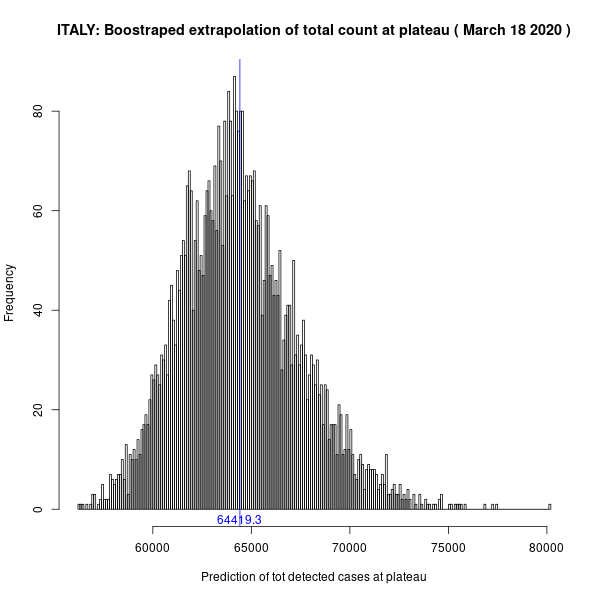
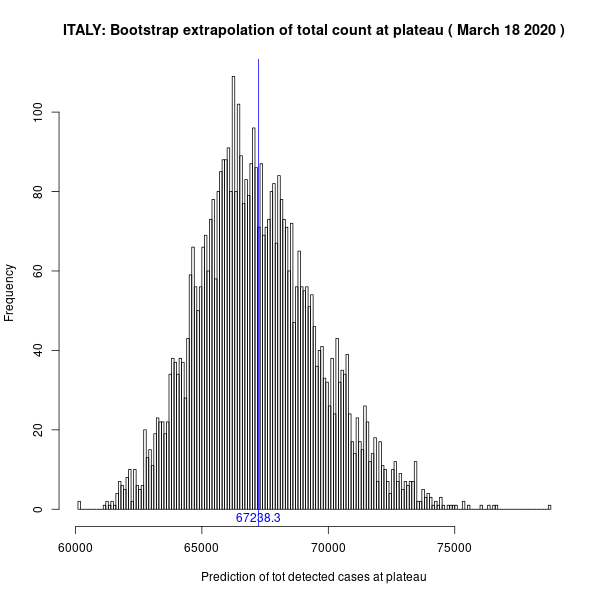
updates

diff --git a/README.md b/README.md
@@ -21,6 +21,9 @@ e.g the number of new cases today divided by the number of new cases yesterday. 
 
 ![alt text](https://github.com/artoo-git/covid-19/blob/master/images/ITmodel.png)
 
+
+ALL plateau histograms are projections at 3 weeks and are based on relatively little data and very (VERY) likely to change. Data projection at 5 days (like the above) are more likely to be accurate.
+
 ![alt text](https://github.com/artoo-git/covid-19/blob/master/images/ITplateau.png)
 
 ![alt text](https://github.com/artoo-git/covid-19/blob/master/images/ITmodelD.png)
